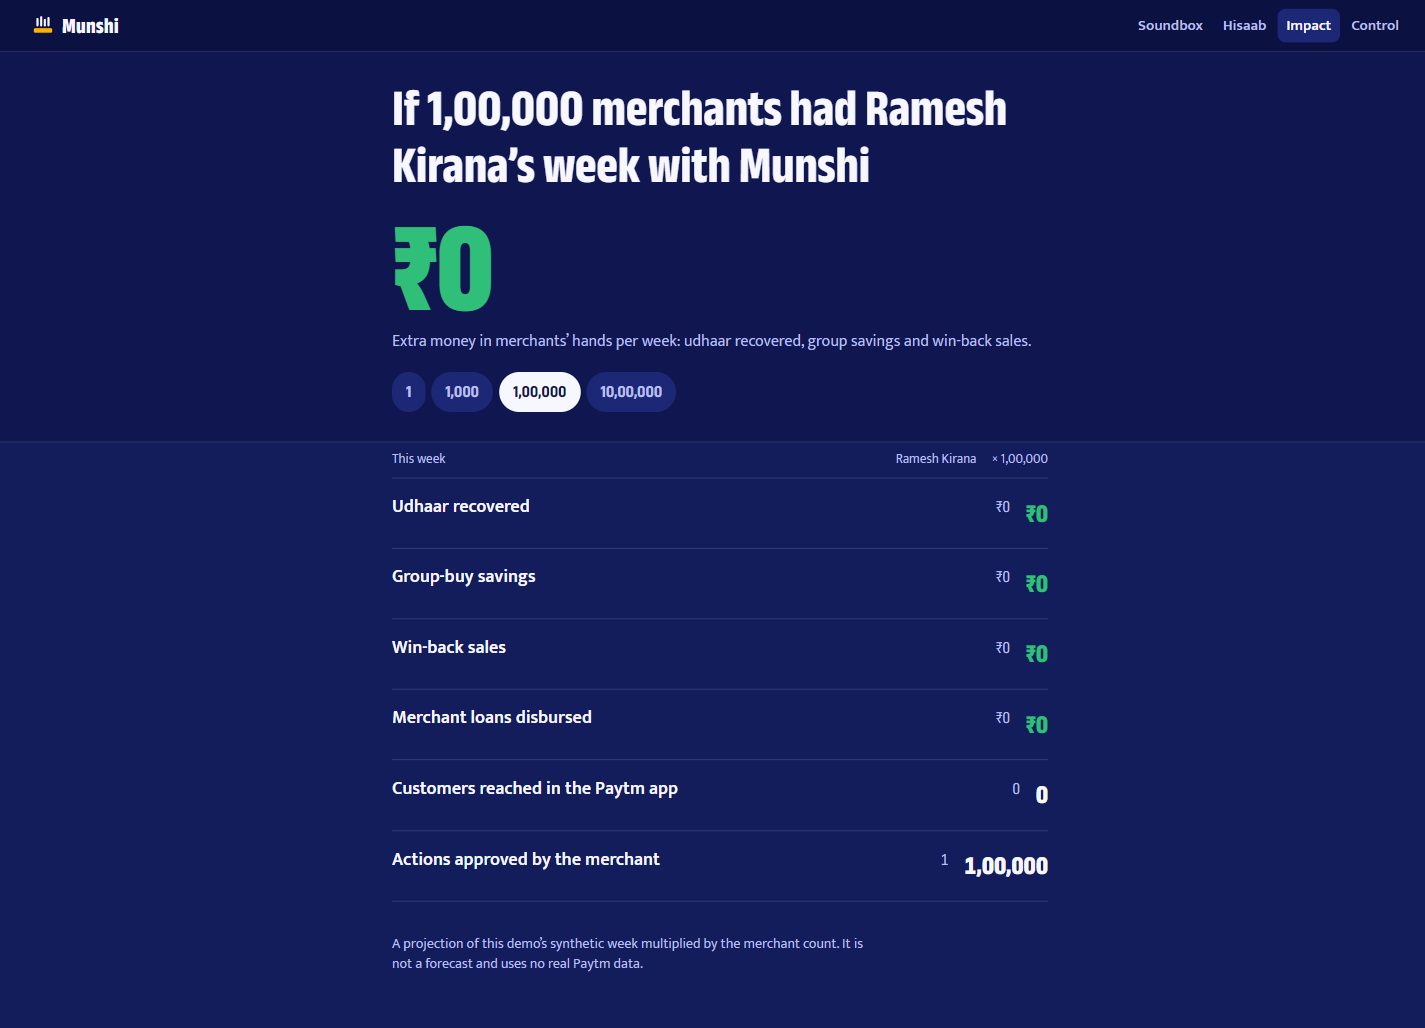
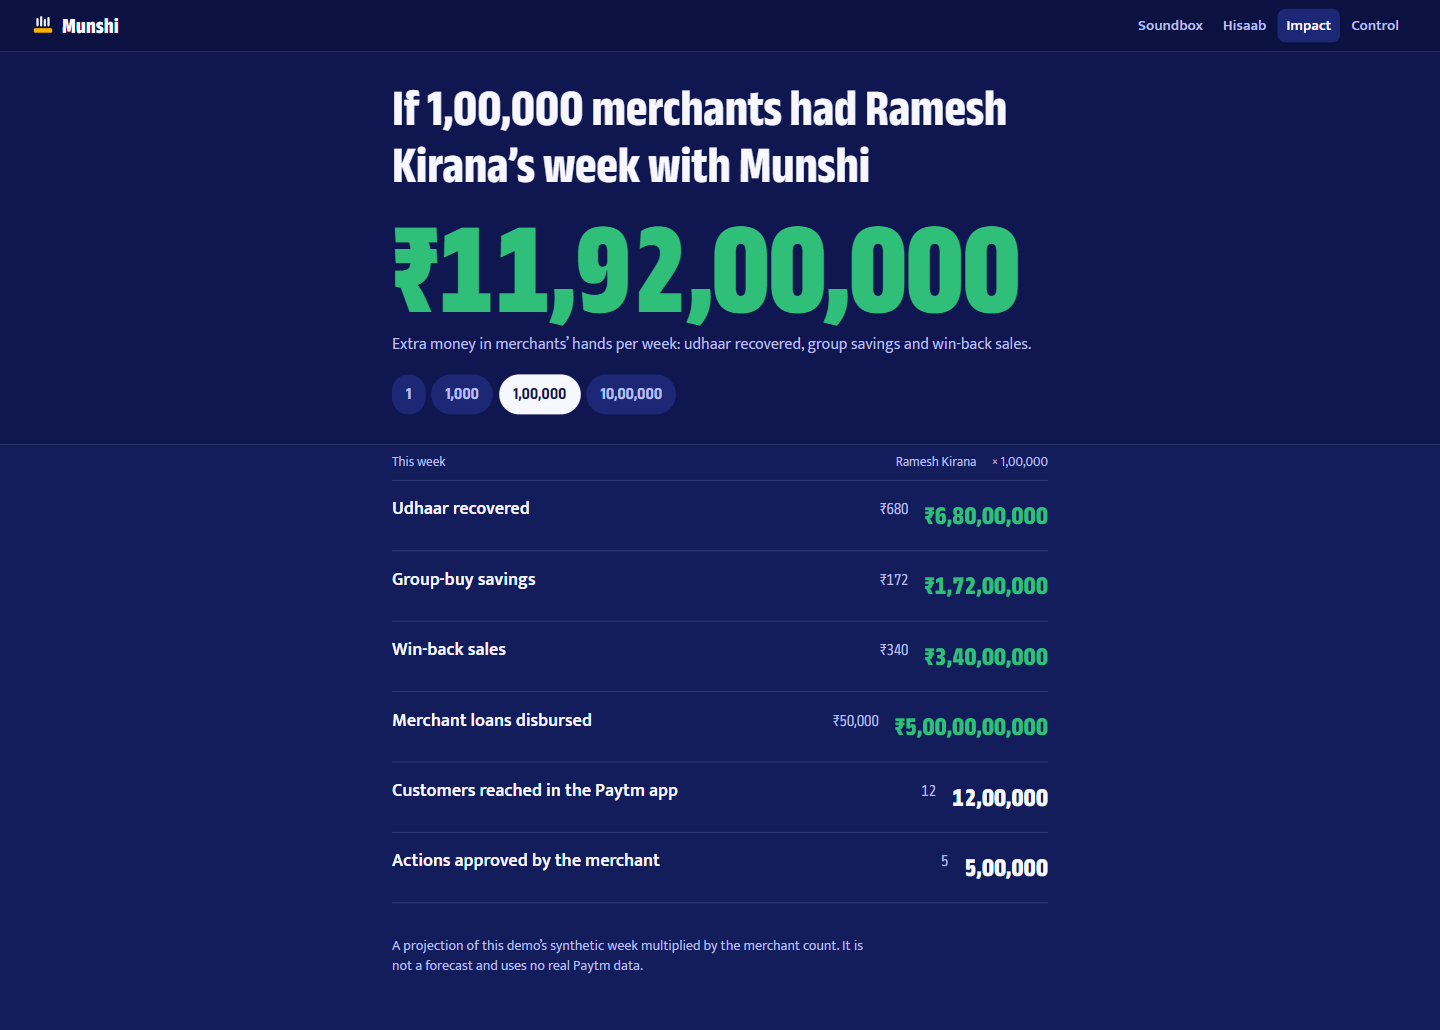
fix: long impact figure fits a phone; refresh review captures

diff --git a/web/Impact.tsx b/web/Impact.tsx
@@ -33,7 +33,7 @@ export function Impact() {
       <div className="masthead">
         <div className="wrap">
           <h1>If {count(n)} {n === 1 ? 'merchant' : 'merchants'} had Ramesh Kirana’s week with Munshi</h1>
-          <span className="big-amt num">{data ? rupees(data.projected.weeklyIncome) : '₹—'}</span>
+          <span className="big-amt long num">{data ? rupees(data.projected.weeklyIncome) : '₹—'}</span>
           <p>Extra money in merchants’ hands per week: udhaar recovered, group savings and win-back sales.</p>
           <div className="picker" role="group" aria-label="Number of merchants">
             {SCALES.map(s => <button key={s} aria-pressed={s === n} onClick={() => setN(s)}>{count(s)}</button>)}

diff --git a/web/styles.css b/web/styles.css
@@ -292,3 +292,5 @@ button, input, select { font: inherit; color: inherit; }
   .qr { max-width: 640px; margin: 0 auto; }
 }
 @media (max-width: 639px) { .impact-head { grid-template-columns: 1fr auto; } .impact-head span:first-child { display: none; } }
+/* Long projected figures (crores) shrink to fit a phone; still the largest thing on the page. */
+.big-amt.long { font-size: clamp(40px, 12vw, 132px); overflow-wrap: anywhere; }
